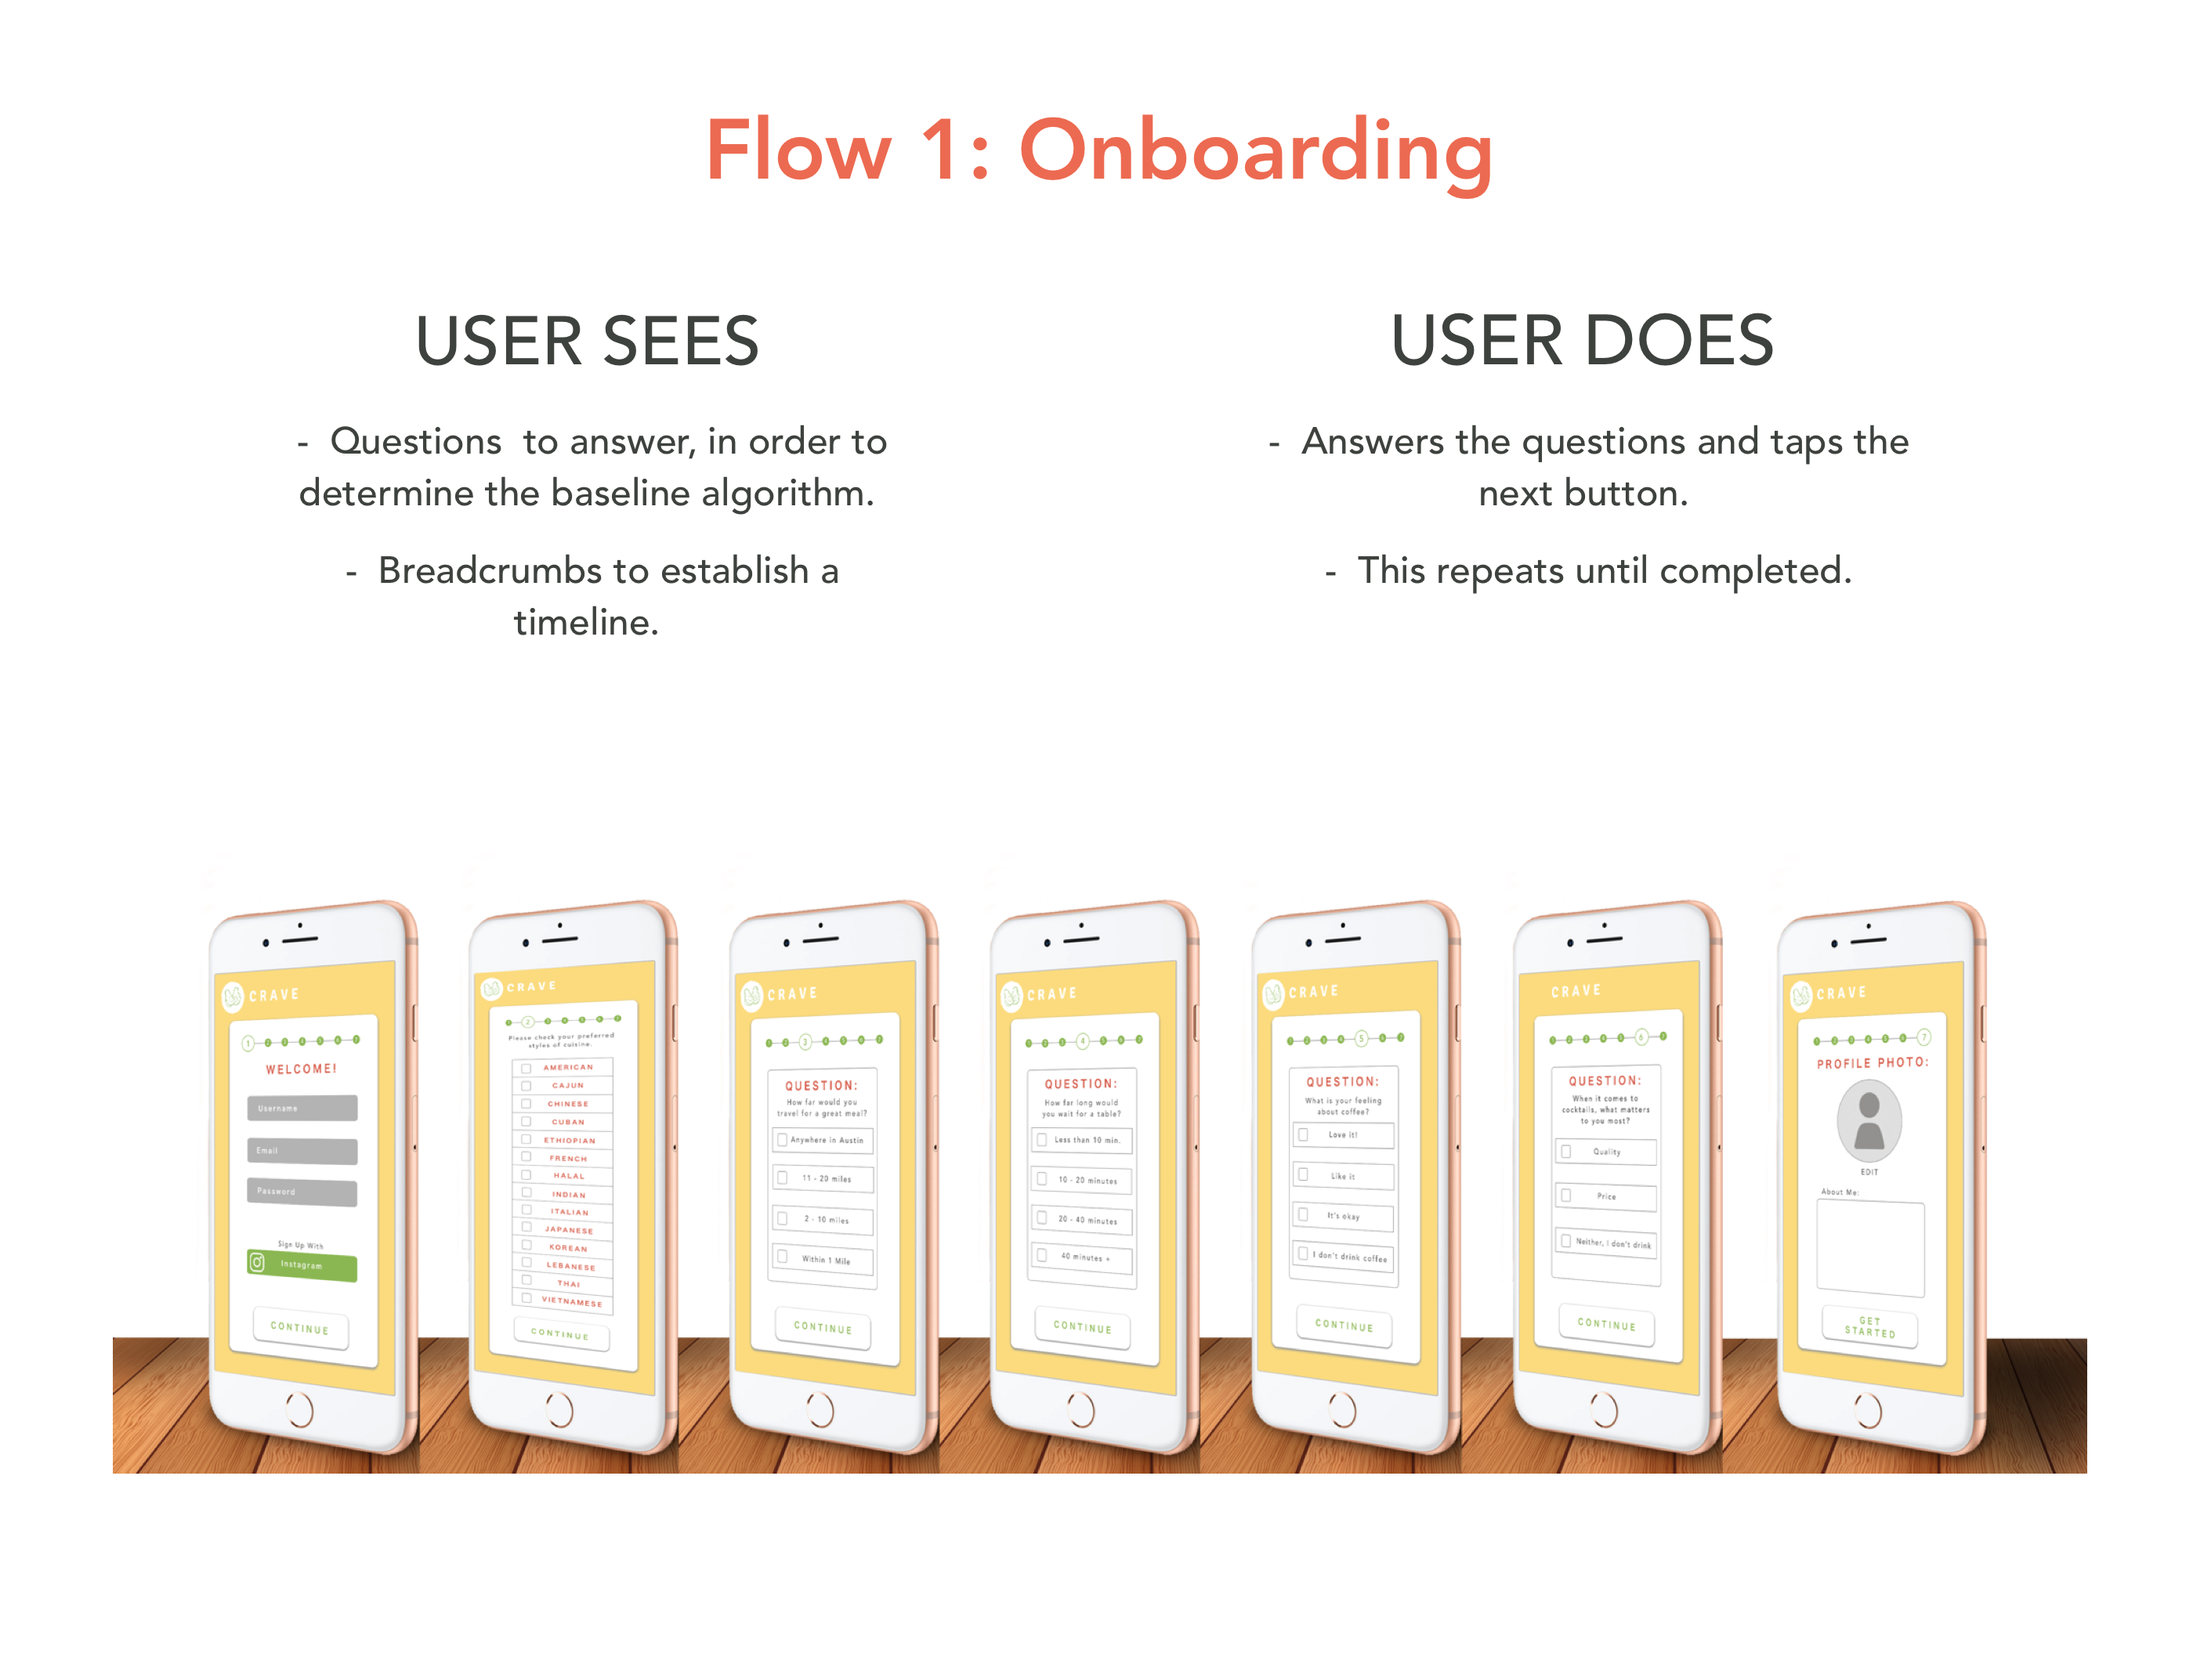
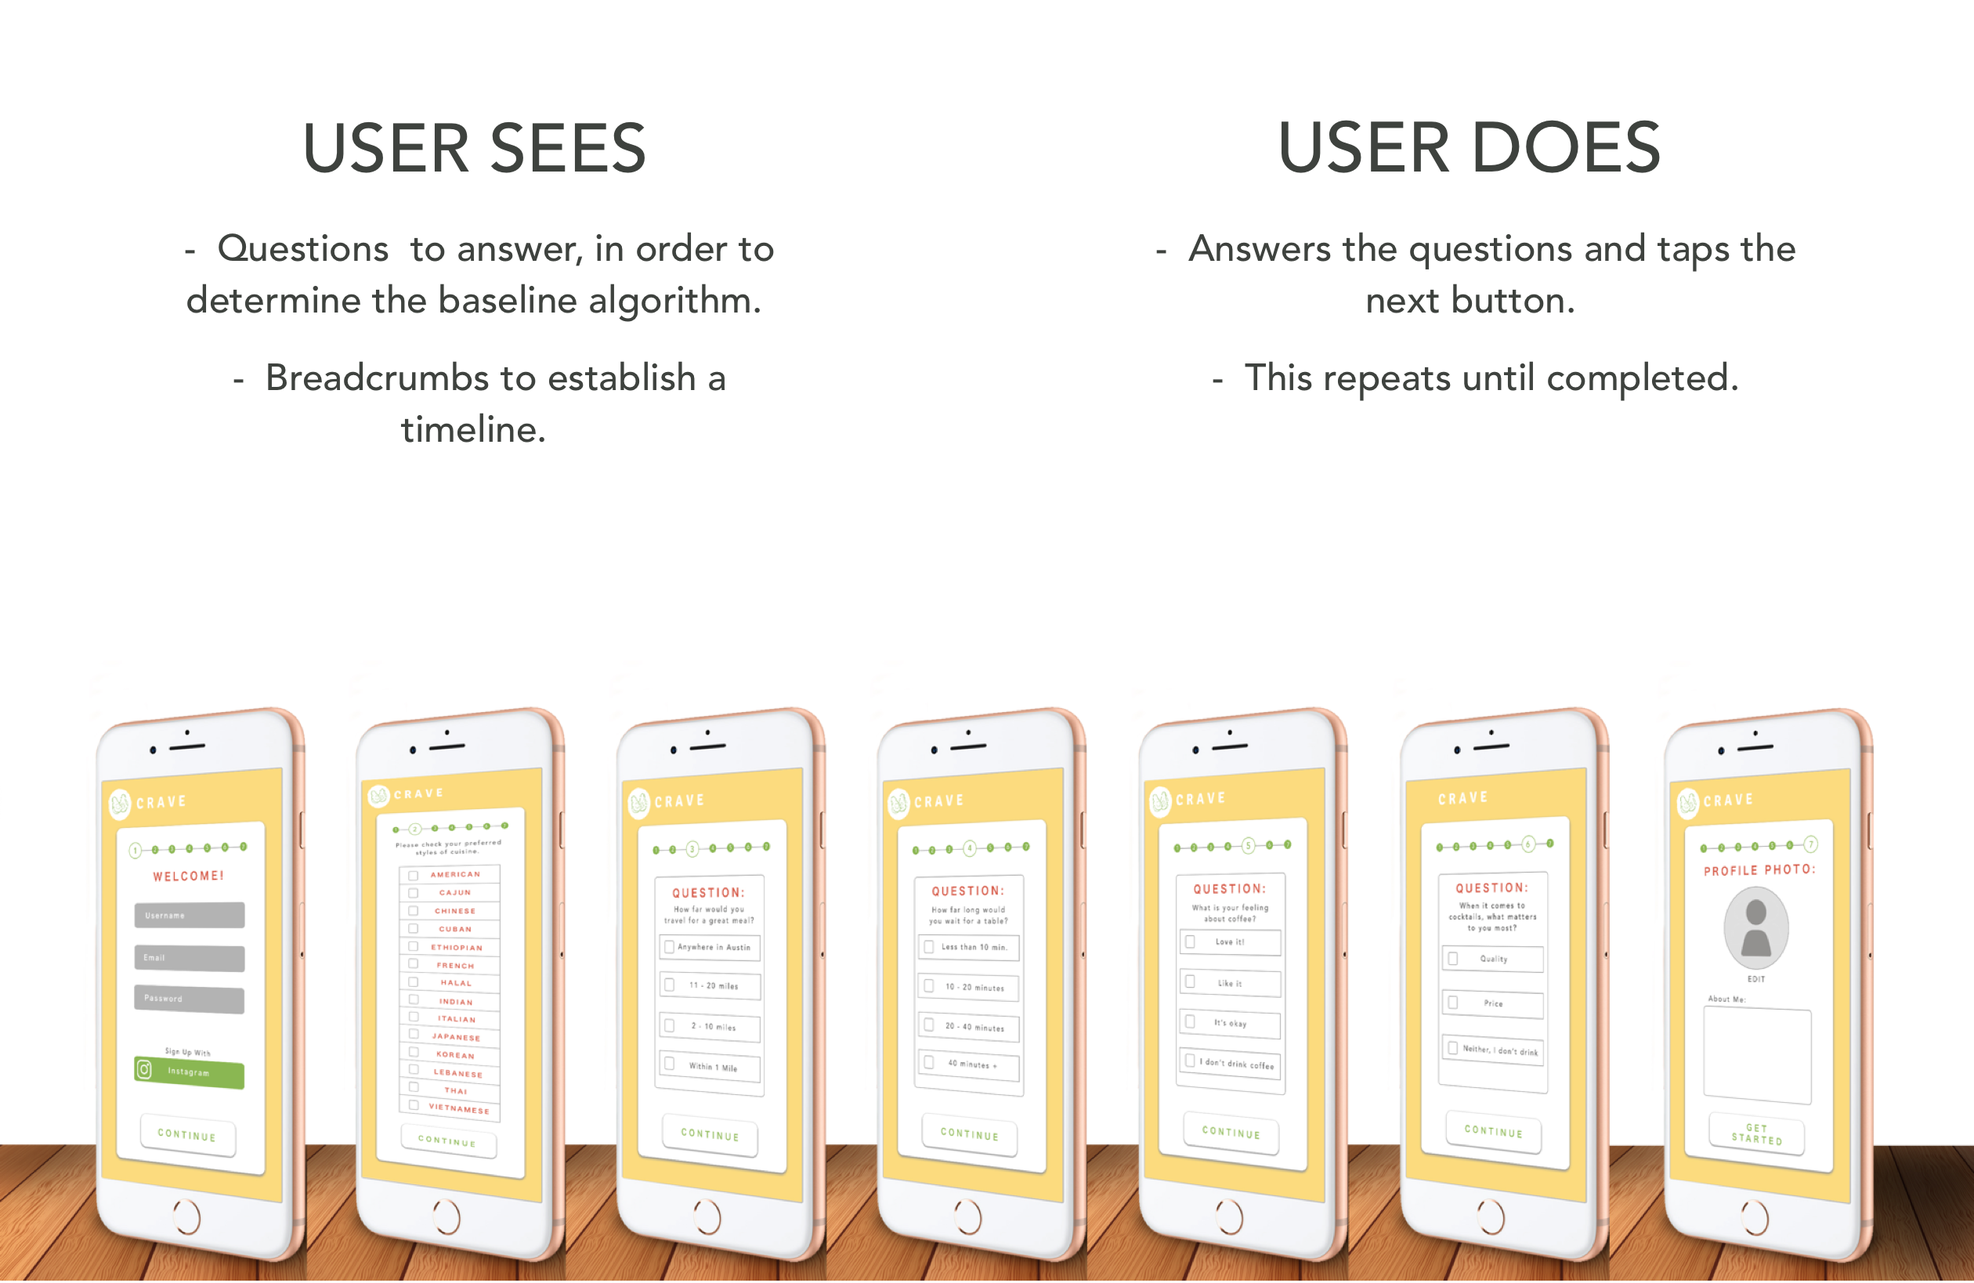
Crave Project Updates

diff --git a/index.html b/index.html
@@ -59,7 +59,7 @@
     <!-- Header -->
     <header class="masthead brick_bg text-white text-center ">
       <div class="container">
-        <img class="img-fluid mb-5 d-block mx-auto logo" src="img/portfolio/UrsaMinorDesigns_Logo.png" alt="">
+        <img class="img-fluid mb-5 d-block mx-auto logo" src="img/portfolio/UrsaMinor_Logo.png" alt="">
         <h1 class="text-uppercase mb-0 sub_header">MISHA BURGARDT</h1>
        <br>
        <br>
@@ -329,7 +329,7 @@ Based on research (survey, interviews, and in person user testing), Trent’s pa
               <img class="img-fluid mb-5" src="img/portfolio/Crave_Decision_Flow.png" alt="">
               <br>
               <br>
-              <br>
+            
       <h1>Journey Map</h1>
       <br>
       <br>
@@ -359,16 +359,37 @@ Based on research (survey, interviews, and in person user testing), Trent’s pa
               <br>
               <br>
               <br>
-              
+
               <h1>Usability Testing Feedback</h1>
               <img class="img-fluid mb-5" src="img/portfolio/Crave_Usability_Testing.png" alt="">
               <br>
               <br>
               <br>
+              <br>
 
+              <h1>Flow 1: Onboarding</h1>
               <img class="img-fluid mb-5" src="img/portfolio/Crave_Flow1.png" alt="">
+              <br>
+              <br>
+              <br>
+              <br>
+              <br>
+
+              <h1>Flow 2: Curated </h1>
               <img class="img-fluid mb-5" src="img/portfolio/Crave_Flow2.png" alt="">
+              <br>
+              <br>
+              <br>
+              <br>
+              <br>
+
+              <h1>Flow 3: Friend Recommended</h1>
               <img class="img-fluid mb-5" src="img/portfolio/Crave_Flow3.png" alt="">
+              <br>
+              <br>
+              <br>
+              <br>
+
               <img class="img-fluid mb-5" src="img/portfolio/Crave_Proto1.png" alt="">
               <a href="https://projects.invisionapp.com/share/8PO771I75SB#/screens" class="btn-primary btn-lg active" style="background-color: #8AB752;" role="button" aria-pressed="true">Try Me!</a>
               <br>
